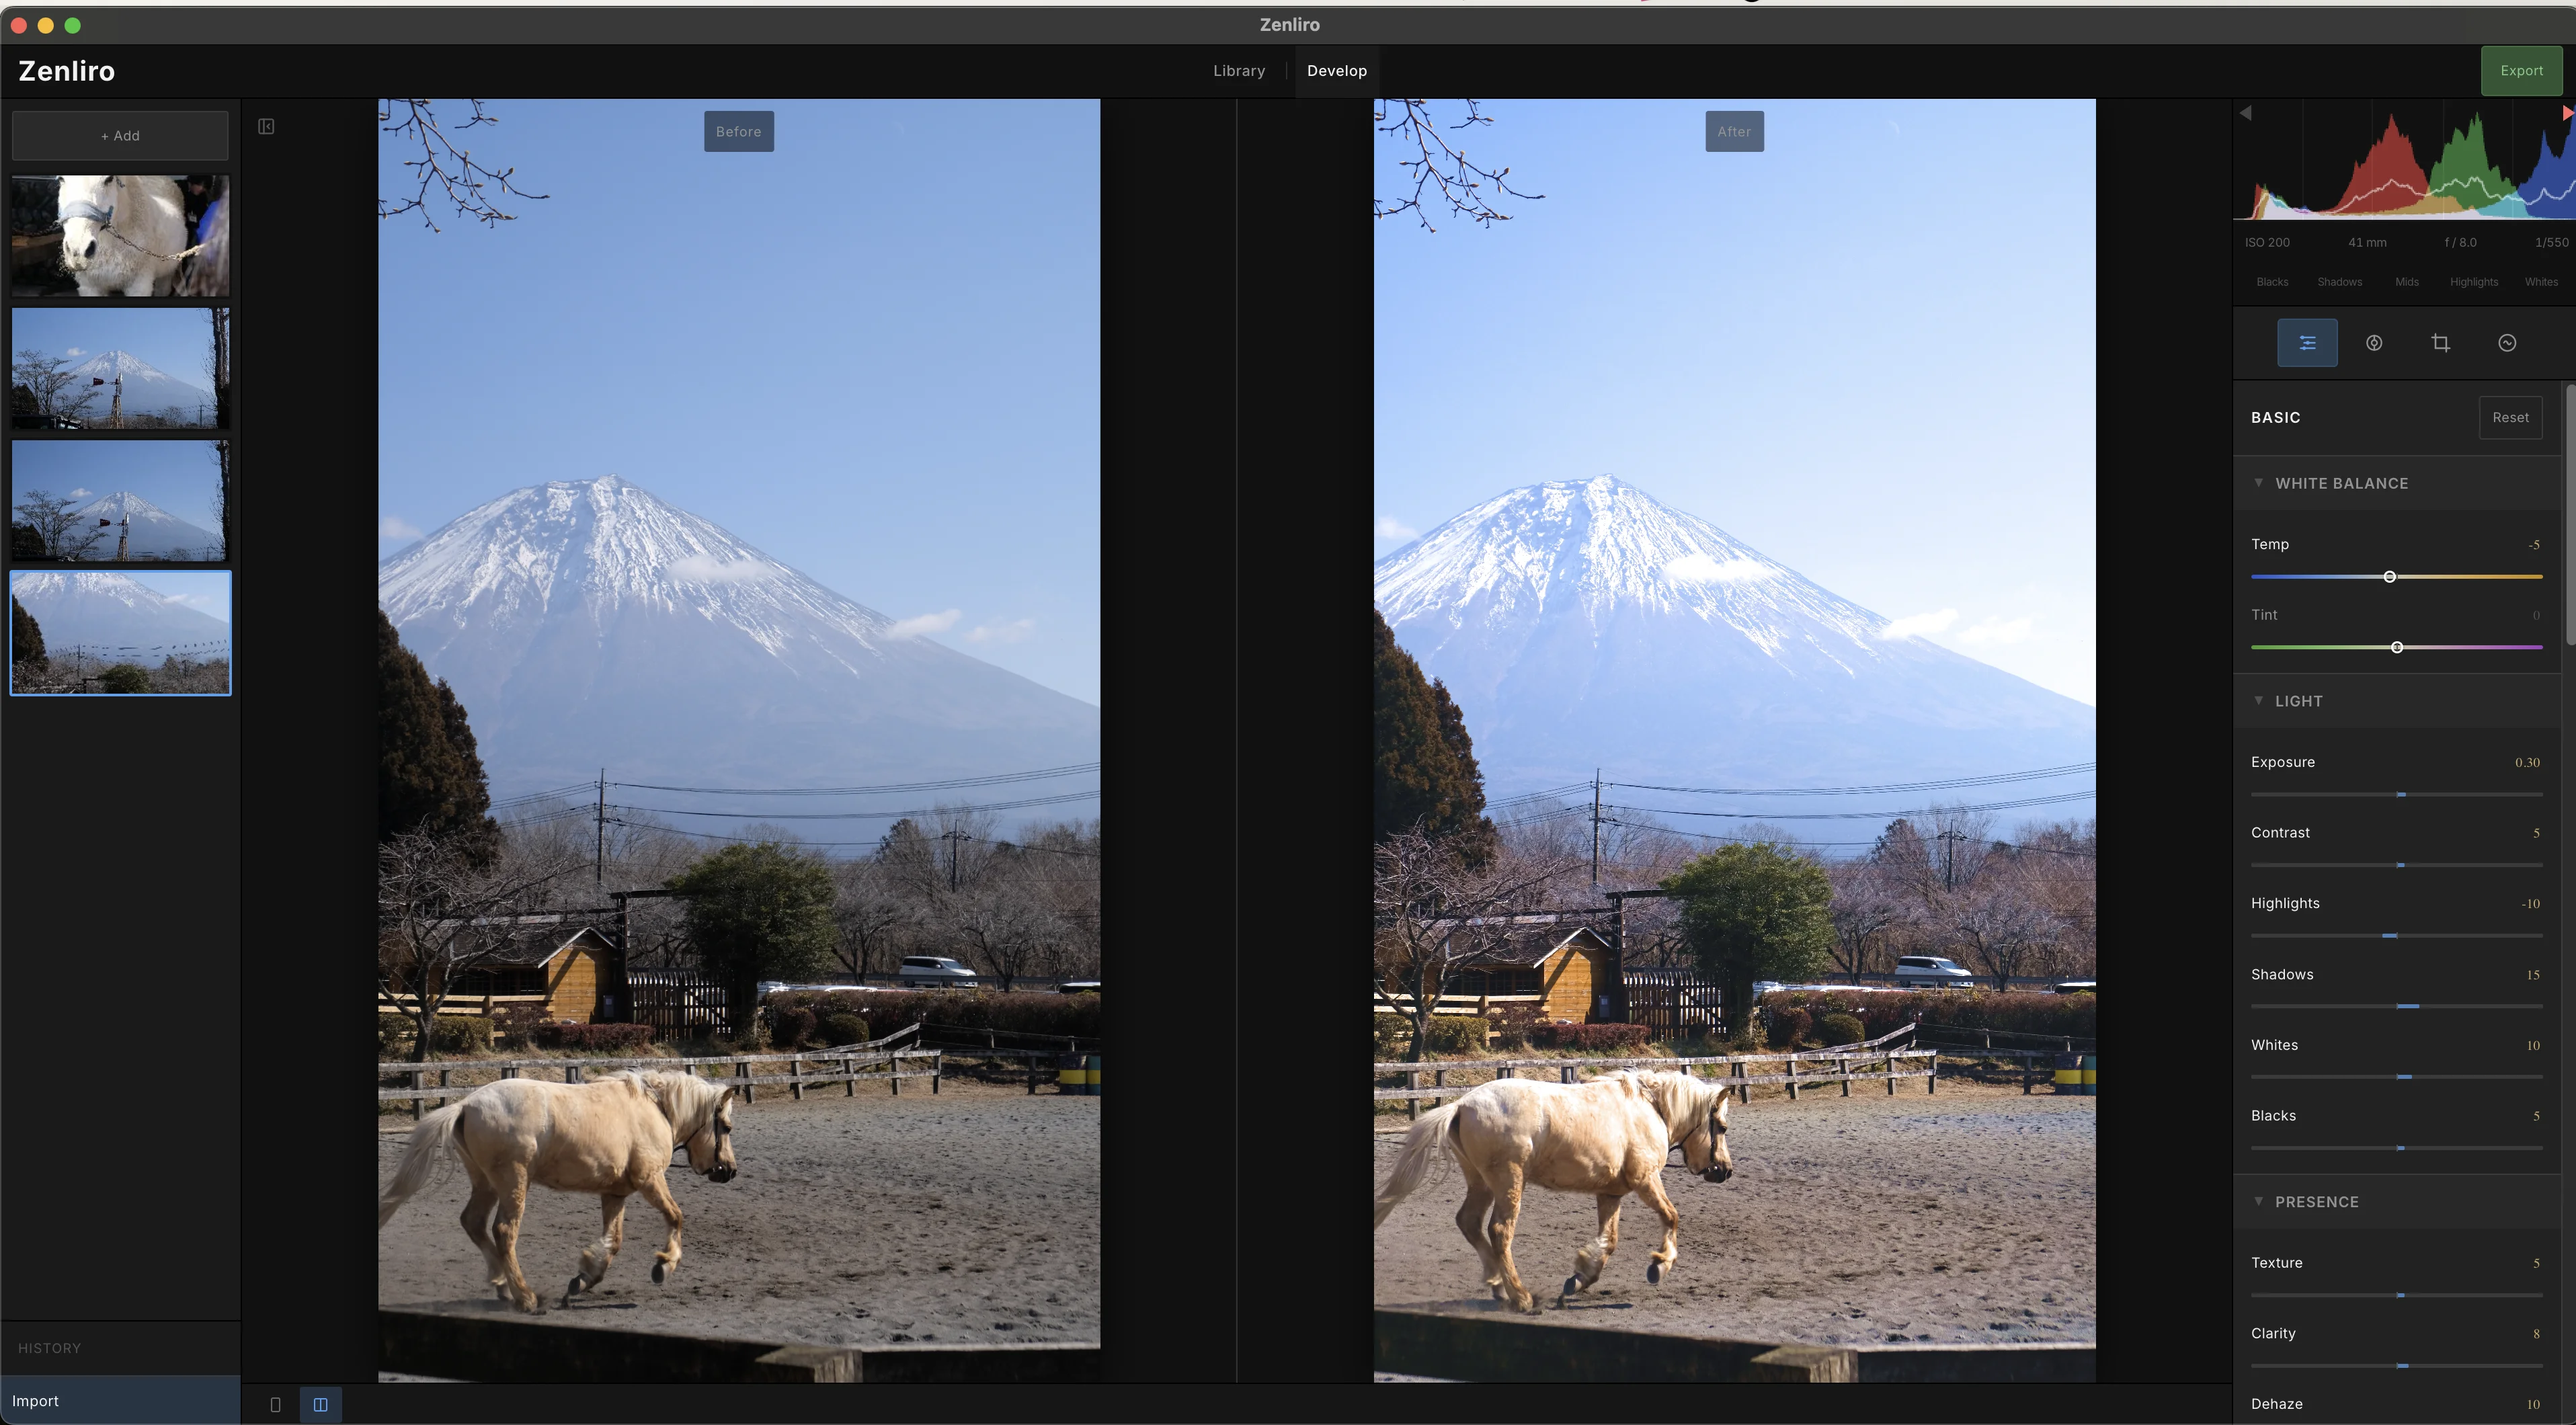
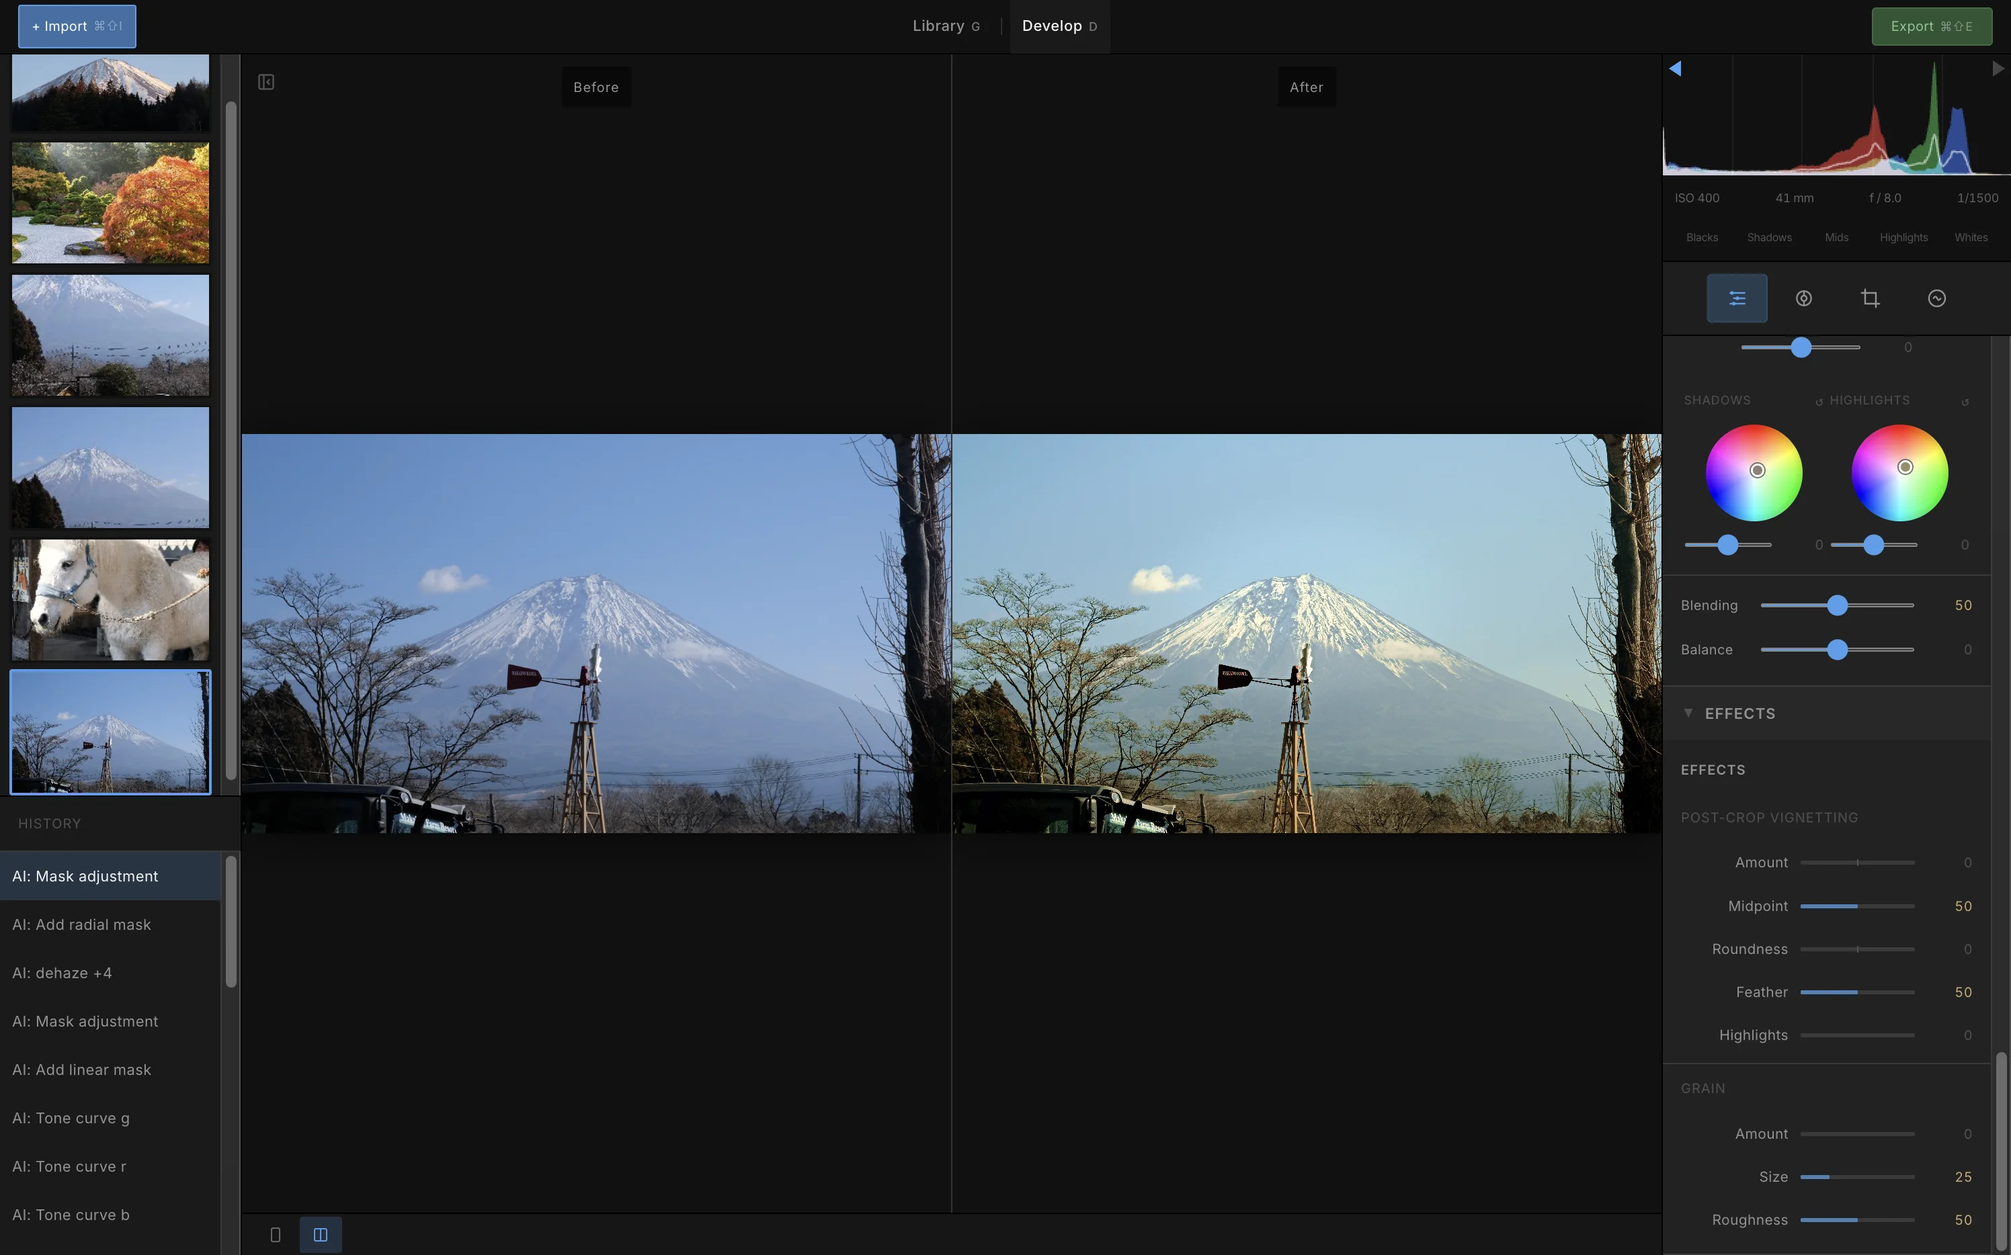
update: demo

diff --git a/landing-page/partials/features.html b/landing-page/partials/features.html
@@ -129,7 +129,7 @@
         </div>
         <h3 class="font-semibold mb-2">Style Presets</h3>
         <p class="text-sm text-br-muted leading-relaxed">
-          35+ curated looks for different moods and genres. One-click to transform your photo's
+          40+ curated looks for different moods and genres. One-click to transform your photo's
           feel.
         </p>
       </div>
@@ -157,6 +157,84 @@
         <p class="text-sm text-br-muted leading-relaxed">
           Custom shaders for real-time processing entirely on the GPU. Instant feedback on every
           adjustment.
+        </p>
+      </div>
+
+      <!-- Photo Library -->
+      <div
+        class="fade-in group p-6 rounded-xl bg-br-surface border border-br-border hover:border-white/10 transition-colors"
+      >
+        <div class="w-10 h-10 rounded-lg bg-blue-500/10 flex items-center justify-center mb-4">
+          <svg
+            class="w-5 h-5 text-blue-400"
+            fill="none"
+            viewBox="0 0 24 24"
+            stroke="currentColor"
+            stroke-width="1.5"
+          >
+            <path
+              stroke-linecap="round"
+              stroke-linejoin="round"
+              d="M3.75 9.776c.112-.017.227-.026.344-.026h15.812c.117 0 .232.009.344.026m-16.5 0a2.25 2.25 0 00-1.883 2.542l.857 6a2.25 2.25 0 002.227 1.932H19.05a2.25 2.25 0 002.227-1.932l.857-6a2.25 2.25 0 00-1.883-2.542m-16.5 0V6A2.25 2.25 0 016 3.75h3.879a1.5 1.5 0 011.06.44l2.122 2.12a1.5 1.5 0 001.06.44H18A2.25 2.25 0 0120.25 9v.776"
+            />
+          </svg>
+        </div>
+        <h3 class="font-semibold mb-2">Photo Library</h3>
+        <p class="text-sm text-br-muted leading-relaxed">
+          Intuitive folder-based photo management with drag-and-drop support. Stay organized as your
+          shoots grow.
+        </p>
+      </div>
+
+      <!-- Keyboard Shortcuts -->
+      <div
+        class="fade-in group p-6 rounded-xl bg-br-surface border border-br-border hover:border-white/10 transition-colors"
+      >
+        <div class="w-10 h-10 rounded-lg bg-indigo-500/10 flex items-center justify-center mb-4">
+          <svg
+            class="w-5 h-5 text-indigo-400"
+            fill="none"
+            viewBox="0 0 24 24"
+            stroke="currentColor"
+            stroke-width="1.5"
+          >
+            <path
+              stroke-linecap="round"
+              stroke-linejoin="round"
+              d="M2.25 6.75a.75.75 0 01.75-.75h18a.75.75 0 01.75.75v10.5a.75.75 0 01-.75.75H3a.75.75 0 01-.75-.75V6.75zM6 9.75h.008v.008H6V9.75zm0 3h.008v.008H6v-.008zm3-3h.008v.008H9V9.75zm0 3h.008v.008H9v-.008zm3-3h.008v.008H12V9.75zm0 3h.008v.008H12v-.008zm3-3h.008v.008H15V9.75zm0 3h.008v.008H15v-.008zm3-3h.008v.008H18V9.75zm0 3h.008v.008H18v-.008zM7.5 15.75h9"
+            />
+          </svg>
+        </div>
+        <h3 class="font-semibold mb-2">Keyboard Shortcuts</h3>
+        <p class="text-sm text-br-muted leading-relaxed">
+          Intuitive shortcuts modeled after Lightroom Classic. Keep your hands on the keyboard and
+          your eyes on the photo.
+        </p>
+      </div>
+
+      <!-- Bulk Edit with AI -->
+      <div
+        class="fade-in group p-6 rounded-xl bg-br-surface border border-br-border hover:border-white/10 transition-colors"
+      >
+        <div class="w-10 h-10 rounded-lg bg-rose-500/10 flex items-center justify-center mb-4">
+          <svg
+            class="w-5 h-5 text-rose-400"
+            fill="none"
+            viewBox="0 0 24 24"
+            stroke="currentColor"
+            stroke-width="1.5"
+          >
+            <path
+              stroke-linecap="round"
+              stroke-linejoin="round"
+              d="M15.59 14.37a6 6 0 01-5.84 7.38v-4.8m5.84-2.58a14.98 14.98 0 006.16-12.12A14.98 14.98 0 009.631 8.41m5.96 5.96a14.926 14.926 0 01-5.841 2.58m-.119-8.54a6 6 0 00-7.381 5.84h4.8m2.581-5.84a14.927 14.927 0 00-2.58 5.84m2.699 2.7c-.103.021-.207.041-.311.06a15.09 15.09 0 01-2.448-2.448 14.9 14.9 0 01.06-.312m-2.24 2.39a4.493 4.493 0 00-1.757 4.306 4.493 4.493 0 004.306-1.758M16.5 9a1.5 1.5 0 11-3 0 1.5 1.5 0 013 0z"
+            />
+          </svg>
+        </div>
+        <h3 class="font-semibold mb-2">Bulk Edit with AI</h3>
+        <p class="text-sm text-br-muted leading-relaxed">
+          Hand a batch of photos to the AI Agent. It edits each one and notifies you when the whole
+          set is done.
         </p>
       </div>
     </div>

diff --git a/landing-page/partials/showcase.html b/landing-page/partials/showcase.html
@@ -8,22 +8,40 @@
       </p>
     </div>
 
-    <!-- Main workspace screenshot -->
+    <!-- Main workspace — photo management -->
     <div class="fade-in mb-12">
       <div class="window-frame max-w-4xl mx-auto">
         <div class="window-dots"><span></span><span></span><span></span></div>
         <img
-          src="./assets/main-workspace.webp"
-          alt="Zenliro main workspace with AI agent"
+          src="./assets/main-workspace-1.webp"
+          alt="Zenliro photo management workspace"
           class="w-full block"
           loading="lazy"
         />
       </div>
-      <p class="text-center text-sm text-br-muted mt-4">Develop module with AI Agent panel</p>
+      <p class="text-center text-sm text-br-muted mt-4">
+        Photo management — browse folders, pick the shot worth developing
+      </p>
+    </div>
+
+    <!-- Main workspace — editing -->
+    <div class="fade-in mb-12">
+      <div class="window-frame max-w-4xl mx-auto">
+        <div class="window-dots"><span></span><span></span><span></span></div>
+        <img
+          src="./assets/main-workspace-2.webp"
+          alt="Zenliro editing workspace with Develop panels"
+          class="w-full block"
+          loading="lazy"
+        />
+      </div>
+      <p class="text-center text-sm text-br-muted mt-4">
+        Editing workspace — Develop module with AI Agent panel
+      </p>
     </div>
 
     <!-- Compare mode screenshot -->
-    <div class="fade-in">
+    <div class="fade-in mb-12">
       <div class="window-frame max-w-4xl mx-auto">
         <div class="window-dots"><span></span><span></span><span></span></div>
         <img
@@ -35,6 +53,22 @@
       </div>
       <p class="text-center text-sm text-br-muted mt-4">
         Side-by-side compare mode — see before and after instantly
+      </p>
+    </div>
+
+    <!-- Multi-agent editing screenshot -->
+    <div class="fade-in">
+      <div class="window-frame max-w-4xl mx-auto">
+        <div class="window-dots"><span></span><span></span><span></span></div>
+        <img
+          src="./assets/multi-agents-editor-reviewer.webp"
+          alt="Zenliro multi-agent editor and reviewer workflow"
+          class="w-full block"
+          loading="lazy"
+        />
+      </div>
+      <p class="text-center text-sm text-br-muted mt-4">
+        Multi-agent workflow — an editor agent proposes, a reviewer agent critiques
       </p>
     </div>
   </div>

diff --git a/landing-page/index.html b/landing-page/index.html
@@ -13,7 +13,7 @@
       property="og:description"
       content="Open-source desktop photo development app with AI-powered color grading. Enhance, not alter."
     />
-    <meta property="og:image" content="./assets/main-workspace.webp" />
+    <meta property="og:image" content="./assets/main-workspace-2.webp" />
     <meta property="og:type" content="website" />
     <meta name="twitter:card" content="summary_large_image" />
     <meta name="twitter:title" content="Zenliro — Photo Development, Perfected" />
@@ -21,7 +21,7 @@
       name="twitter:description"
       content="Open-source desktop photo development app powered by AI."
     />
-    <meta name="twitter:image" content="./assets/main-workspace.webp" />
+    <meta name="twitter:image" content="./assets/main-workspace-2.webp" />
     <link rel="icon" type="image/png" sizes="48x48" href="./assets/favicon-48x48.png" />
     <link rel="icon" type="image/png" sizes="32x32" href="./assets/favicon-32x32.png" />
     <link rel="icon" type="image/png" sizes="192x192" href="./assets/favicon-192x192.png" />

diff --git a/landing-page/partials/ai-demo.html b/landing-page/partials/ai-demo.html
@@ -103,5 +103,21 @@
         AI agent result — before and after with full edit history
       </p>
     </div>
+
+    <!-- Bulk edit with AI -->
+    <div class="fade-in mt-16">
+      <div class="window-frame max-w-4xl mx-auto">
+        <div class="window-dots"><span></span><span></span><span></span></div>
+        <img
+          src="./assets/bulk-edit.webp"
+          alt="Bulk edit a batch of photos with AI Agent"
+          class="w-full block"
+          loading="lazy"
+        />
+      </div>
+      <p class="text-center text-sm text-br-muted mt-4">
+        Bulk edit — hand a batch of photos to the AI Agent and get notified when it's done
+      </p>
+    </div>
   </div>
 </section>

diff --git a/README.ru.md b/README.ru.md
@@ -13,7 +13,14 @@ Zenliro — это настольный инструмент для обрабо
 
 ## Демо
 
-- Основное рабочее пространство: ![main workspace](docs/releases/show-my-work/demo/main-workspace.png)
+- Основное рабочее пространство:
+
+  Управление фотографиями
+  ![main workspace 1](docs/releases/show-my-work/demo/main-workspace-1.png)
+
+  Рабочее пространство редактирования
+  ![main workspace 2](docs/releases/show-my-work/demo/main-workspace-2.png)
+
 - Режим сравнения: ![compare mode](docs/releases/show-my-work/demo/compare-mode.png)
 - Редактирование фото несколькими агентами: ![multiple agents](docs/releases/show-my-work/demo/multi-agents-editor-reviewer.png)
 - Пакетное редактирование AI: ![AI bulk edit](docs/releases/assets/bulk-edit-2.png)

diff --git a/README.vi.md b/README.vi.md
@@ -13,7 +13,14 @@ Zenliro là công cụ xử lý ảnh và color grading trên desktop, dành cho
 
 ## Demo
 
-- Giao diện chính: ![main workspace](docs/releases/show-my-work/demo/main-workspace.png)
+- Giao diện chính:
+
+  Quản lý ảnh
+  ![main workspace 1](docs/releases/show-my-work/demo/main-workspace-1.png)
+
+  Không gian chỉnh sửa
+  ![main workspace 2](docs/releases/show-my-work/demo/main-workspace-2.png)
+
 - Chế độ so sánh: ![compare mode](docs/releases/show-my-work/demo/compare-mode.png)
 - Chỉnh sửa ảnh với nhiều Agent: ![multiple agents](docs/releases/show-my-work/demo/multi-agents-editor-reviewer.png)
 - Chỉnh sửa hàng loạt bằng AI: ![AI bulk edit](docs/releases/assets/bulk-edit-2.png)

diff --git a/README.ko.md b/README.ko.md
@@ -13,7 +13,14 @@ Zenliro는 무드, 톤, 그리고 진정성을 중시하는 사진가를 위한 
 
 ## 데모
 
-- 메인 작업 공간: ![main workspace](docs/releases/show-my-work/demo/main-workspace.png)
+- 메인 작업 공간:
+
+  사진 관리
+  ![main workspace 1](docs/releases/show-my-work/demo/main-workspace-1.png)
+
+  편집 작업 공간
+  ![main workspace 2](docs/releases/show-my-work/demo/main-workspace-2.png)
+
 - 비교 모드: ![compare mode](docs/releases/show-my-work/demo/compare-mode.png)
 - 다중 Agent 사진 편집: ![multiple agents](docs/releases/show-my-work/demo/multi-agents-editor-reviewer.png)
 - AI 일괄 편집: ![AI bulk edit](docs/releases/assets/bulk-edit-2.png)

diff --git a/README.md b/README.md
@@ -13,7 +13,14 @@ Zenliro is a desktop photo processing and color grading tool built for photograp
 
 ## Demo
 
-- Main workspace: ![main workspace](docs/releases/show-my-work/demo/main-workspace.png)
+- Main workspace:
+
+  Photo management
+  ![main workspace 1](docs/releases/show-my-work/demo/main-workspace-1.png)
+
+  Editing workspace
+  ![main workspace 2](docs/releases/show-my-work/demo/main-workspace-2.png)
+
 - Compare mode: ![compare mode](docs/releases/show-my-work/demo/compare-mode.png)
 - Multiple Agents photo editing: ![multiple agents](docs/releases/show-my-work/demo/multi-agents-editor-reviewer.png)
 - AI bulk Edit ![AI bulk edit](docs/releases/assets/bulk-edit-2.png)

diff --git a/README.zh.md b/README.zh.md
@@ -13,7 +13,14 @@ Zenliro 是一款为注重氛围、色调与真实感的摄影师打造的桌面
 
 ## 演示
 
-- 主工作区：![main workspace](docs/releases/show-my-work/demo/main-workspace.png)
+- 主工作区：
+
+  照片管理
+  ![main workspace 1](docs/releases/show-my-work/demo/main-workspace-1.png)
+
+  编辑工作区
+  ![main workspace 2](docs/releases/show-my-work/demo/main-workspace-2.png)
+
 - 对比模式：![compare mode](docs/releases/show-my-work/demo/compare-mode.png)
 - 多 Agent 协同修图：![multiple agents](docs/releases/show-my-work/demo/multi-agents-editor-reviewer.png)
 - AI 批量编辑：![AI bulk edit](docs/releases/assets/bulk-edit-2.png)
